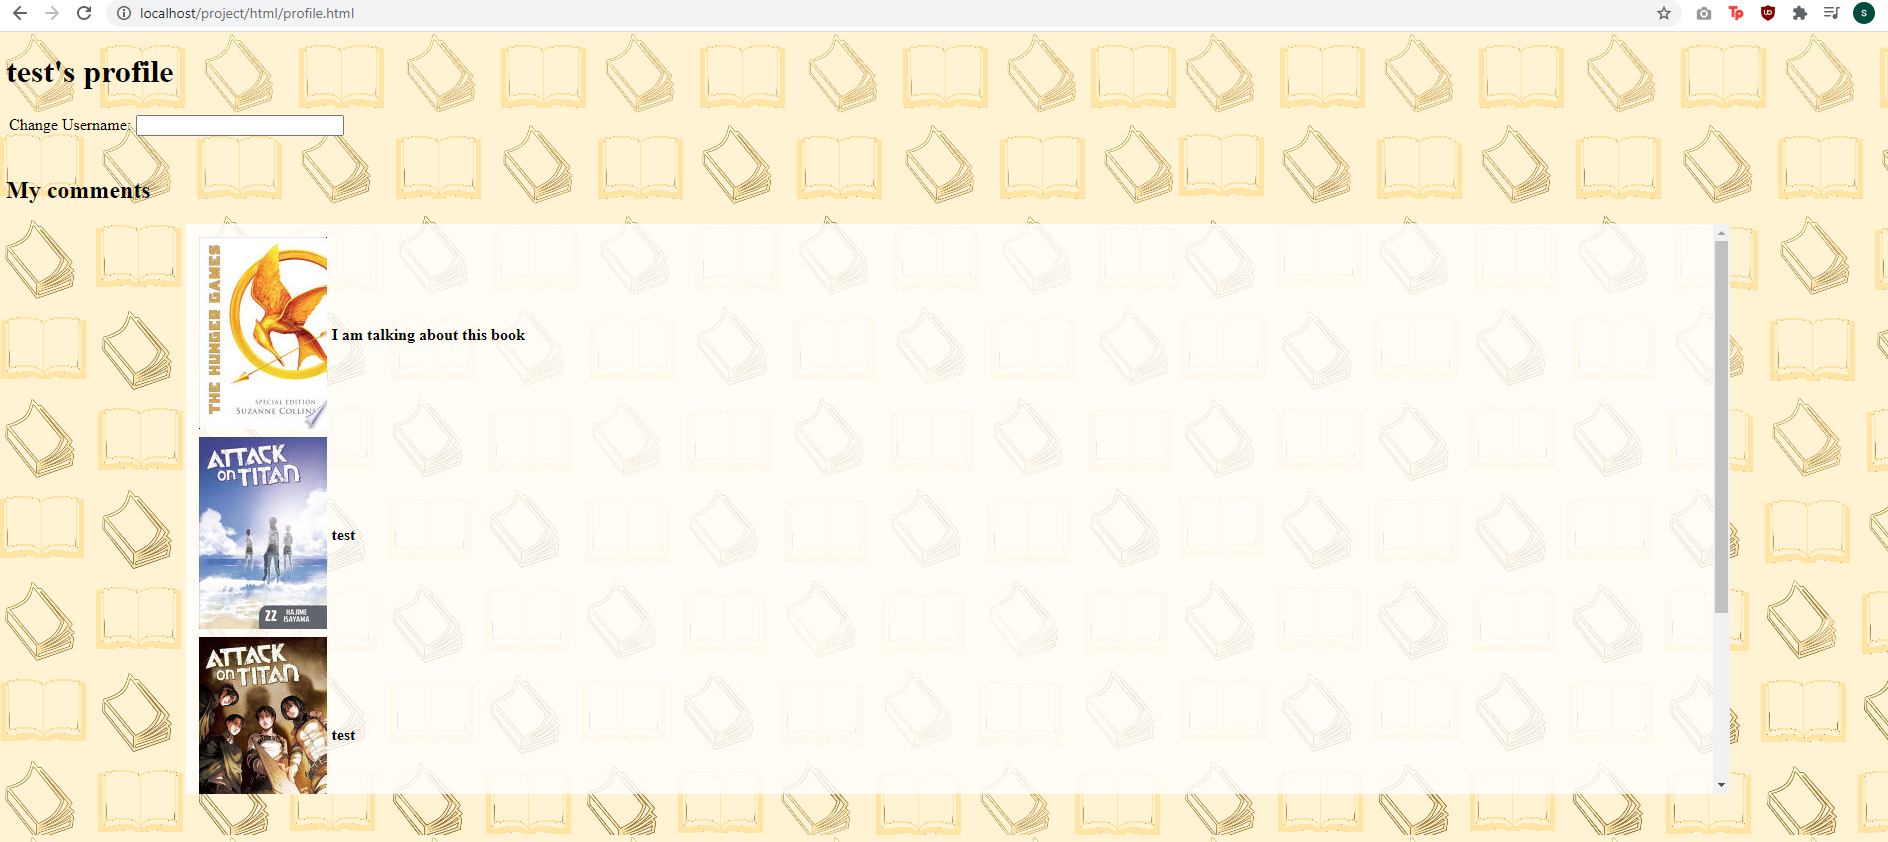
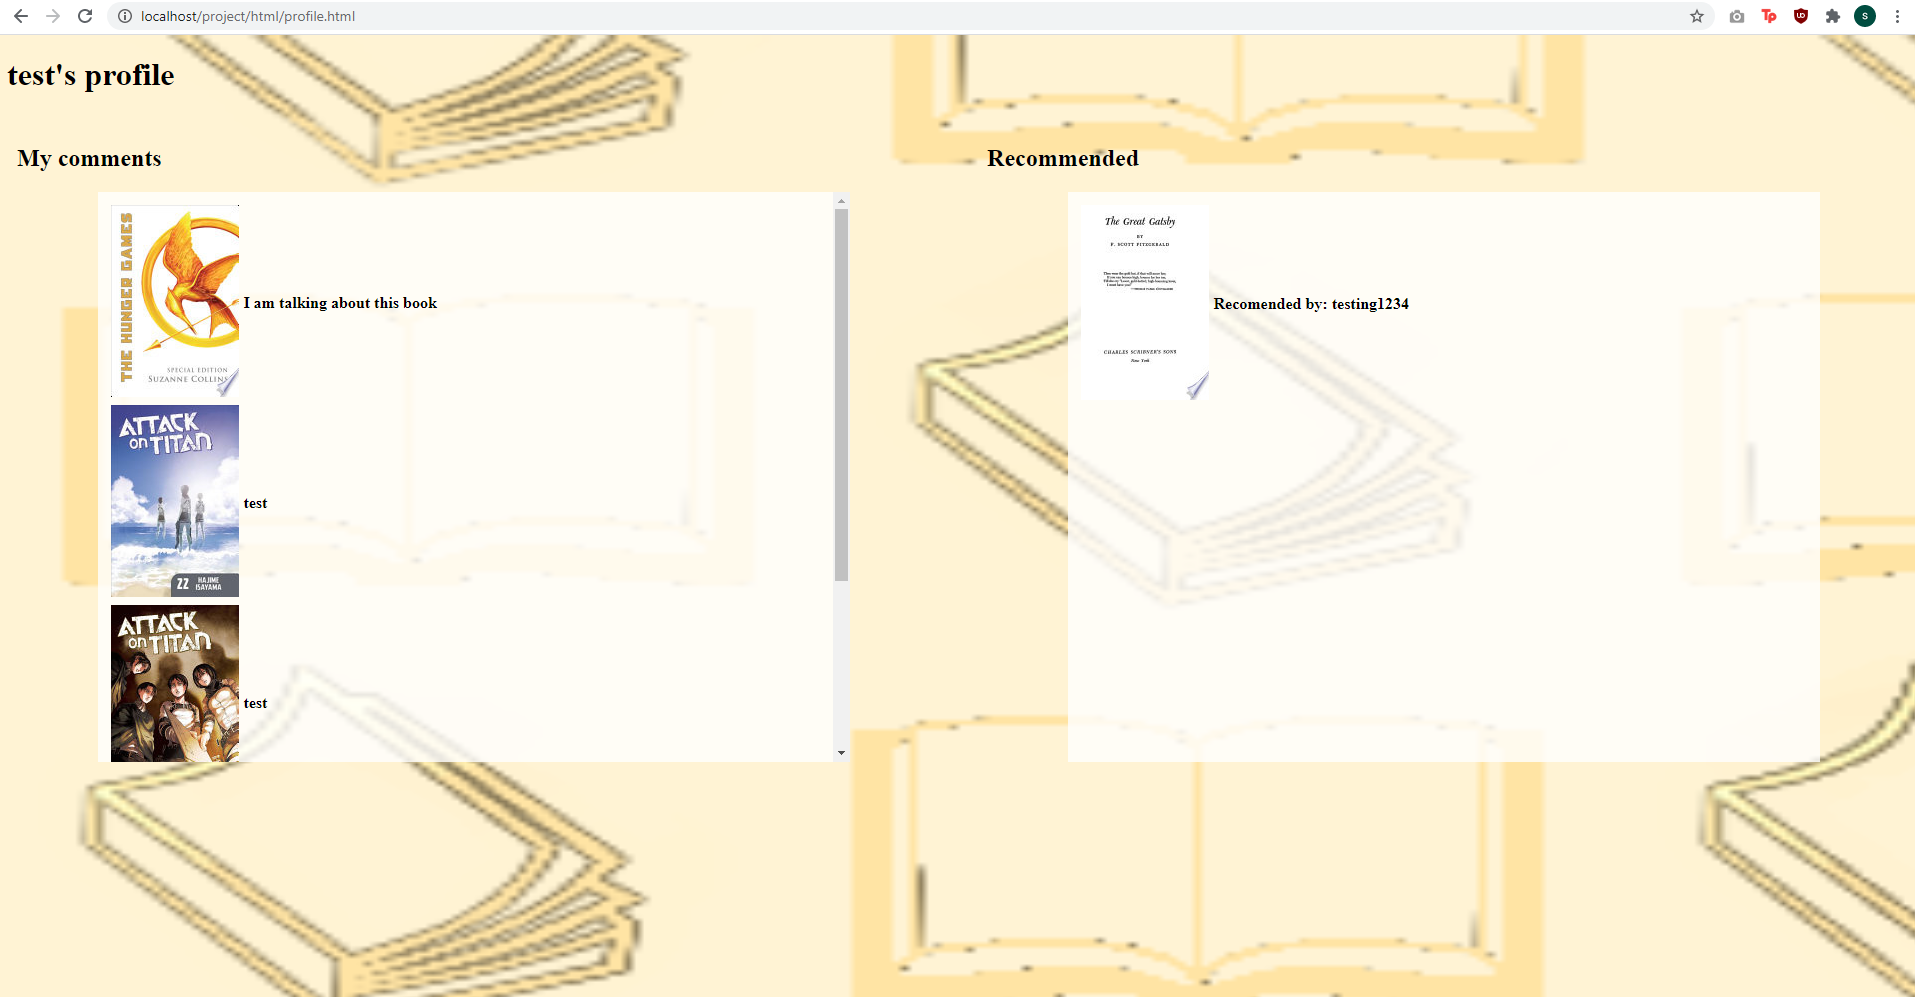
Profile done

diff --git a/html/profile.html b/html/profile.html
@@ -13,6 +13,24 @@
             overflow-y: auto;
         }
 
+        .columnLeft {
+            float: left;
+            width: 48%;
+            padding: 10px;
+        }
+
+        .columnRight {
+            float: right;
+            width: 48%;
+            padding: 10px;
+        }
+
+        .row:after {
+            content: "";
+            display: table;
+            clear: both;
+        }
+
         body {
             background: linear-gradient(-45deg, #ee7752, #e73c7e, #23a6d5, #23d5ab);
             background-size: 500% 500%;
@@ -76,6 +94,38 @@
             return bookTable;
         }
 
+        function loadRecommend() {
+            var recommendSection = document.getElementById("recommendedBook");
+            var username = localStorage.getItem("user");
+
+            // var myName = document.getElementById("name");
+            // myName.innerHTML = username + "'s profile";
+
+            var xhttp = new XMLHttpRequest();
+            xhttp.responseType = 'text';
+            xhttp.open("post", "../php/loadUserRecommended.php?username=" + username, true);
+            xhttp.onreadystatechange = function () {
+                var bookTable = document.createElement("table");
+                if (xhttp.readyState == 4) {
+                    if (xhttp.status == 200) {
+                        console.log(xhttp.responseText);
+                        var commentsList = xhttp.responseText.split("|");
+
+                        for (let i = 1; i < commentsList.length; i++) {
+
+
+                            var temp = commentsList[i].split(",")
+                            // console.log(temp);
+                            var query = "https://www.googleapis.com/books/v1/volumes/" + temp[0] + "?key=" + key;
+                            bookTable = callNextBook(query, bookTable, "Recomended by: " + temp[1]);
+                        }
+                        recommendSection.appendChild(bookTable);
+                    }
+                }
+            };
+            xhttp.send();
+        }
+
         function loadComment() {
 
             document.body.style.backgroundImage = "url('../images/backdrop2.png')";
@@ -109,6 +159,7 @@
                 }
             };
             xhttp.send();
+            loadRecommend();
         }
     </script>
 
@@ -118,16 +169,19 @@
     <h1>
         <div id="name"></div>
     </h1>
-    <table>
-        <tr>
-            <td>Change Username: </td>
-            <td><input style="width: 200px;"></td>
-        </tr>
-    </table>
-    <br />
-    <h2><strong>My comments</stong>
-    </h2>
-    <div class="informationDiv" id="showComments"></div>
+
+    <div class="row">
+        <div class="columnLeft">
+            <h2><strong>My comments</stong>
+            </h2>
+            <div class="informationDiv" id="showComments"></div>
+        </div>
+        <div class="columnRight">
+            <h2>Recommended</h2>
+            <div class="informationDiv" id="recommendedBook"></div>
+        </div>
+    </div>
+
 </body>
 
 </html>

diff --git a/php/loadUserRecommended.php b/php/loadUserRecommended.php
@@ -25,7 +25,7 @@
 
     //user ID
     $suserName = $_GET["username"];
-    $sql = "Select * from recommend where username ='".$suserName."'";
+    $sql = "Select * from recommend where who ='".$suserName."'";
               
     $info = "";
     $conn = new mysqli($servername, $username, $password, $dbname);
@@ -34,8 +34,8 @@
 
     foreach ($result as $row){
         $nbookID = $row['bookID'];
-        $nWho = $row['who'];
-        $info = $info."|"."$nbookID,$nWho";
+        $nUsername = $row['username'];
+        $info = $info."|"."$nbookID,$nUsername";
     }
     if(strlen($info) == 0){
         $info = "NO RECOMMENDED BOOKS";
